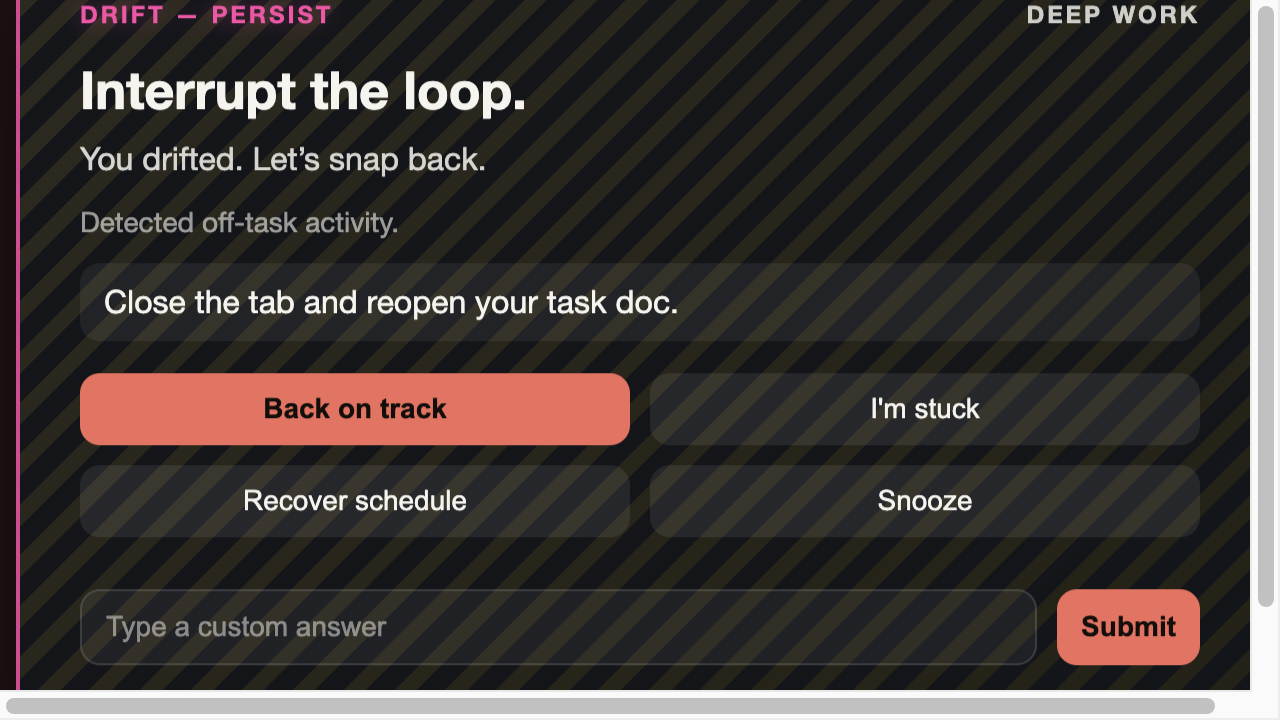
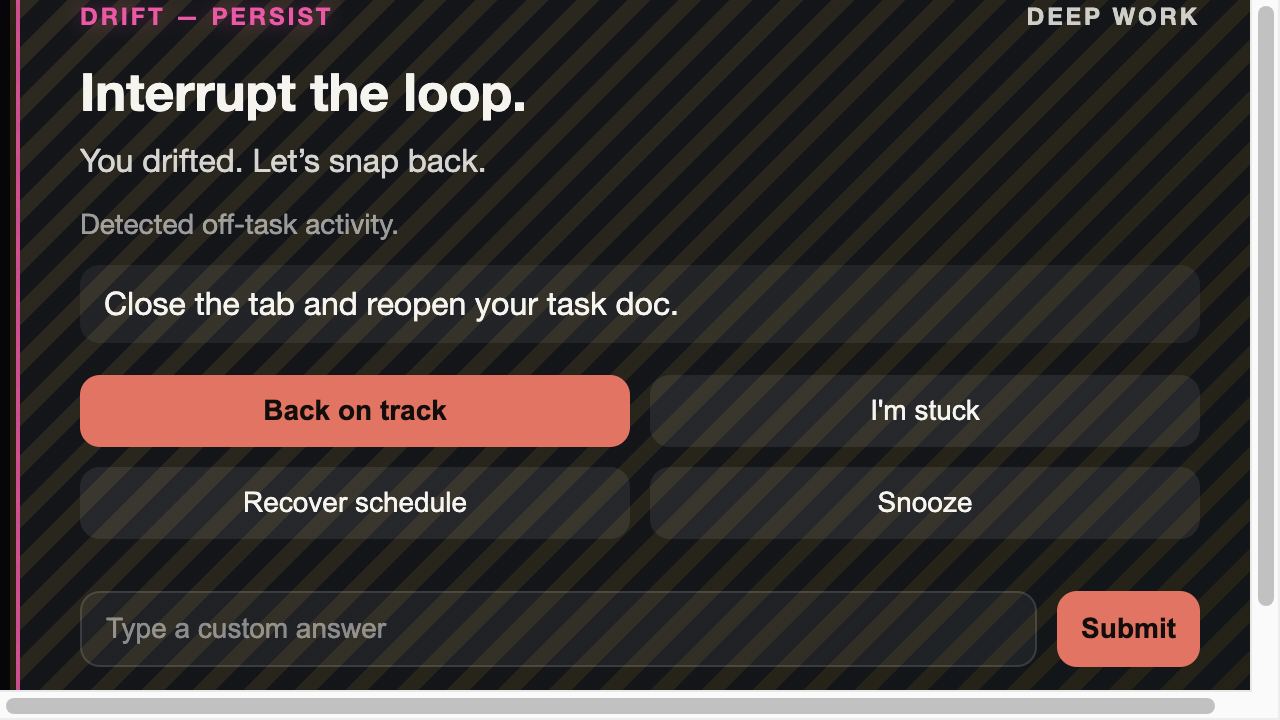
overlay: make screenshot generation deterministic

diff --git a/overlay/screenshot.js b/overlay/screenshot.js
@@ -34,6 +34,16 @@ async function main() {
 
   await win.loadFile(htmlPath);
 
+  // Make screenshots deterministic: disable CSS animations/transitions so we don't
+  // capture mid-pulse frames (notably DRIFT_PERSIST pattern-break).
+  await win.webContents.insertCSS(`
+    *, *::before, *::after {
+      animation: none !important;
+      transition: none !important;
+      caret-color: transparent !important;
+    }
+  `);
+
   async function capture(name, payload) {
     // Give the DOM a moment to settle, then render the payload.
     await new Promise((r) => setTimeout(r, 50));
